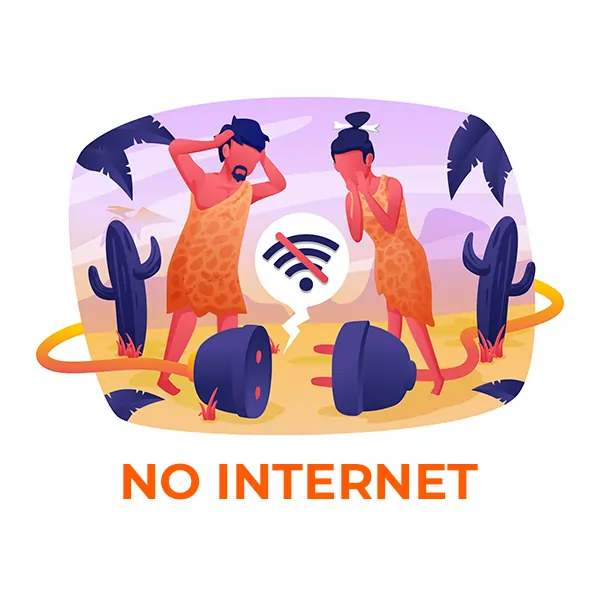
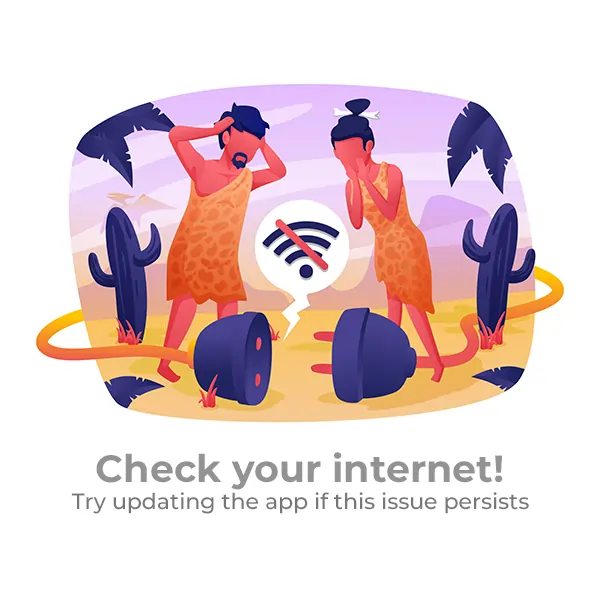
Added NetworkImageCache and Shimmer effects in exercises details page, add no internet image too

Changed region(s): [[0.06, 0.12, 0.96, 0.87]]

diff --git a/lib/hw_exercise_pages/final_ui_card.dart b/lib/hw_exercise_pages/final_ui_card.dart
@@ -18,12 +18,10 @@ class WorkoutDetailPage extends StatefulWidget {
   _WorkoutDetailPageState createState() => _WorkoutDetailPageState();
 }
 
-class _WorkoutDetailPageState extends State<WorkoutDetailPage> with SingleTickerProviderStateMixin {
+class _WorkoutDetailPageState extends State<WorkoutDetailPage> {
   PageController? _pageController;
   late int _currentIndex;
-
-  // Map to hold the keys for each image to manage reloads
-  Map<int, Key> _imageKeys = {};
+  final Map<int, Key> _imageKeys = {};
 
   @override
   void initState() {
@@ -31,7 +29,7 @@ class _WorkoutDetailPageState extends State<WorkoutDetailPage> with SingleTicker
     _currentIndex = widget.currentIndex;
     _pageController = PageController(initialPage: _currentIndex);
 
-    // Initialize the keys for each image
+    // Initialize keys for each image to manage reloads
     for (int i = 0; i < widget.workouts.length; i++) {
       _imageKeys[i] = UniqueKey();
     }
@@ -61,12 +59,6 @@ class _WorkoutDetailPageState extends State<WorkoutDetailPage> with SingleTicker
     }
   }
 
-  void _retryImageLoad(int index) {
-    setState(() {
-      // Generate a new key to force the CachedNetworkImage to reload
-      _imageKeys[index] = UniqueKey();
-    });
-  }
 
   @override
   Widget build(BuildContext context) {
@@ -121,7 +113,8 @@ class _WorkoutDetailPageState extends State<WorkoutDetailPage> with SingleTicker
             itemBuilder: (context, index) {
               final workout = widget.workouts[index];
               return SingleChildScrollView(
-                padding: const EdgeInsets.all(16),
+                padding: const EdgeInsets.only(
+                    bottom: 16, left: 16, right: 16, top: 8),
                 child: Column(
                   crossAxisAlignment: CrossAxisAlignment.start,
                   children: [
@@ -131,7 +124,7 @@ class _WorkoutDetailPageState extends State<WorkoutDetailPage> with SingleTicker
                         child: ClipRRect(
                           borderRadius: BorderRadius.circular(8.0),
                           child: CachedNetworkImage(
-                            key: _imageKeys[index], // Use the key here
+                            key: _imageKeys[index],
                             imageUrl: workout['videoUrl']!,
                             fit: BoxFit.cover,
                             placeholder: (context, url) => Shimmer.fromColors(
@@ -143,33 +136,9 @@ class _WorkoutDetailPageState extends State<WorkoutDetailPage> with SingleTicker
                                 width: double.infinity,
                               ),
                             ),
-                            errorWidget: (context, url, error) => Column(
-                              mainAxisAlignment: MainAxisAlignment.center,
-                              children: [
-                                const Icon(
-                                  Icons.error_outline,
-                                  color: Colors.redAccent,
-                                  size: 48,
-                                ),
-                                const SizedBox(height: 8),
-                                const Text(
-                                  'Failed to load image',
-                                  style: TextStyle(
-                                    color: Colors.white70,
-                                    fontSize: 16,
-                                  ),
-                                ),
-                                const SizedBox(height: 16),
-                                ElevatedButton(
-                                  onPressed: () {
-                                    _retryImageLoad(index);
-                                  },
-                                  style: ElevatedButton.styleFrom(
-                                    backgroundColor: Colors.deepOrange,
-                                  ),
-                                  child: const Text('Retry'),
-                                ),
-                              ],
+                            errorWidget: (context, url, error) => Image.asset(
+                              'lib/images/body/no_internet.webp',
+                              fit: BoxFit.cover,
                             ),
                           ),
                         ),

diff --git a/lib/hw_exercise_pages/ui_card_design.dart b/lib/hw_exercise_pages/ui_card_design.dart
@@ -1,7 +1,7 @@
 // ignore: file_names
 import 'package:flutter/material.dart';
-
-
+import 'package:cached_network_image/cached_network_image.dart';
+import 'package:shimmer/shimmer.dart';
 
 class GradientListCard extends StatelessWidget {
   final String imageUrl;
@@ -9,15 +9,13 @@ class GradientListCard extends StatelessWidget {
   final String subtitle;
   final String videoUrl;
 
-
   const GradientListCard({
-    super.key,    
-    required this.title, 
-    required this.imageUrl, 
-    required this.subtitle, 
+    super.key,
+    required this.title,
+    required this.imageUrl,
+    required this.subtitle,
     required this.videoUrl,
   });
-
 
   @override
   Widget build(BuildContext context) {
@@ -36,11 +34,24 @@ class GradientListCard extends StatelessWidget {
           // Image inside the container
           ClipRRect(
             borderRadius: const BorderRadius.only(topLeft: Radius.circular(14), bottomLeft: Radius.circular(14)),
-            child: Image.network(
-              imageUrl, // Use local image path
+            child: CachedNetworkImage(
+              imageUrl: imageUrl,
               width: double.infinity,
               height: double.infinity,
-              fit: BoxFit.cover, // Cover entire container
+              fit: BoxFit.cover,
+              placeholder: (context, url) => Shimmer.fromColors(
+                baseColor: Colors.grey[300]!,
+                highlightColor: Colors.grey[100]!,
+                child: Container(
+                  color: Colors.white,
+                  width: double.infinity,
+                  height: double.infinity,
+                ),
+              ),
+              errorWidget: (context, url, error) => const Image(
+                image: AssetImage('lib/images/body/no_internet.webp'),
+                fit: BoxFit.cover,
+              ),
             ),
           ),
           // Gradient and text stacked at the bottom of the image

diff --git a/lib/hw_exercise_pages/04_02_ham_glutes.dart b/lib/hw_exercise_pages/04_02_ham_glutes.dart
@@ -92,6 +92,8 @@ class _UpperBodyPageHamState extends State<UpperBodyPageHam> {
                                     fontWeight: FontWeight.bold,
                                     color: Colors.deepOrange,
                                   ),
+                                  overflow: TextOverflow.ellipsis,
+                                  maxLines: 1,
                                 ),
                                 const SizedBox(height: 1),
                                 Text(
@@ -102,6 +104,8 @@ class _UpperBodyPageHamState extends State<UpperBodyPageHam> {
                                     color: Colors.white70,
                                     height: 1.0, // Line height - reduces the space between lines
                                   ),
+                                  overflow: TextOverflow.ellipsis,
+                                  maxLines: 2,
                                 ),
                                 const SizedBox(height: 18),
                                 GestureDetector(

diff --git a/lib/hw_exercise_pages/01_fullbody.dart b/lib/hw_exercise_pages/01_fullbody.dart
@@ -91,6 +91,8 @@ class _FullBodyPageState extends State<FullBodyPage> {
                                     fontWeight: FontWeight.bold,
                                     color: Colors.deepOrange,
                                   ),
+                                  overflow: TextOverflow.ellipsis,
+                                  maxLines: 1,
                                 ),
                                 const SizedBox(height: 1),
                                 Text(
@@ -101,6 +103,8 @@ class _FullBodyPageState extends State<FullBodyPage> {
                                     color: Colors.white70,
                                     height: 1.0, // Line height - reduces the space between lines
                                   ),
+                                  overflow: TextOverflow.ellipsis,
+                                  maxLines: 2,
                                 ),
                                 const SizedBox(height: 18),
                                 GestureDetector(
